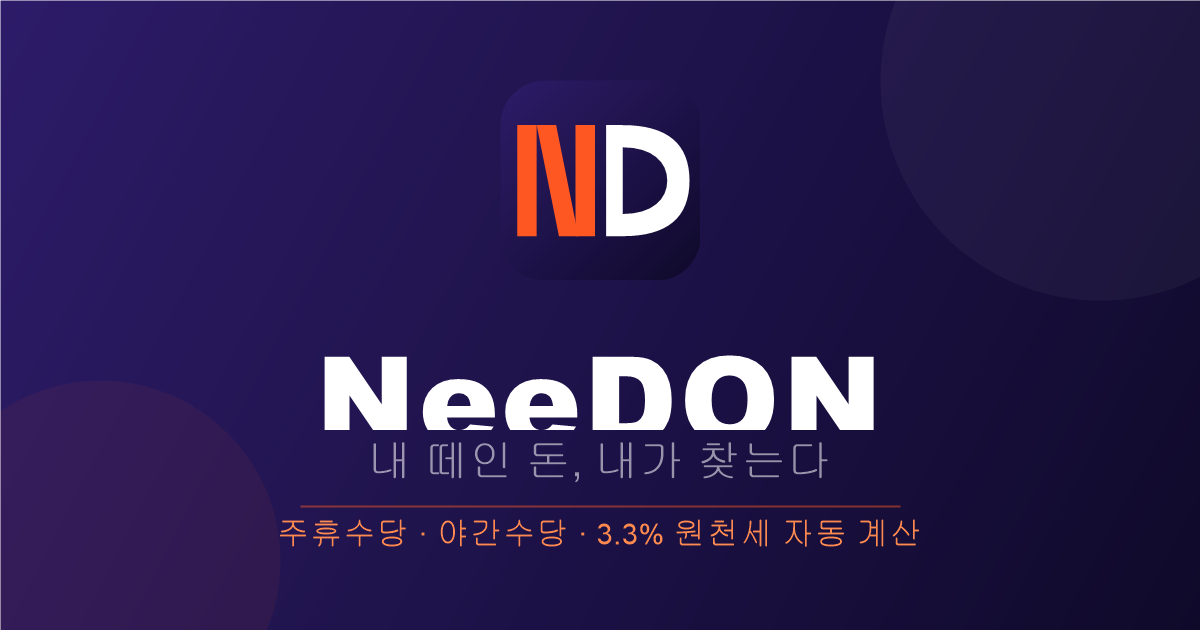
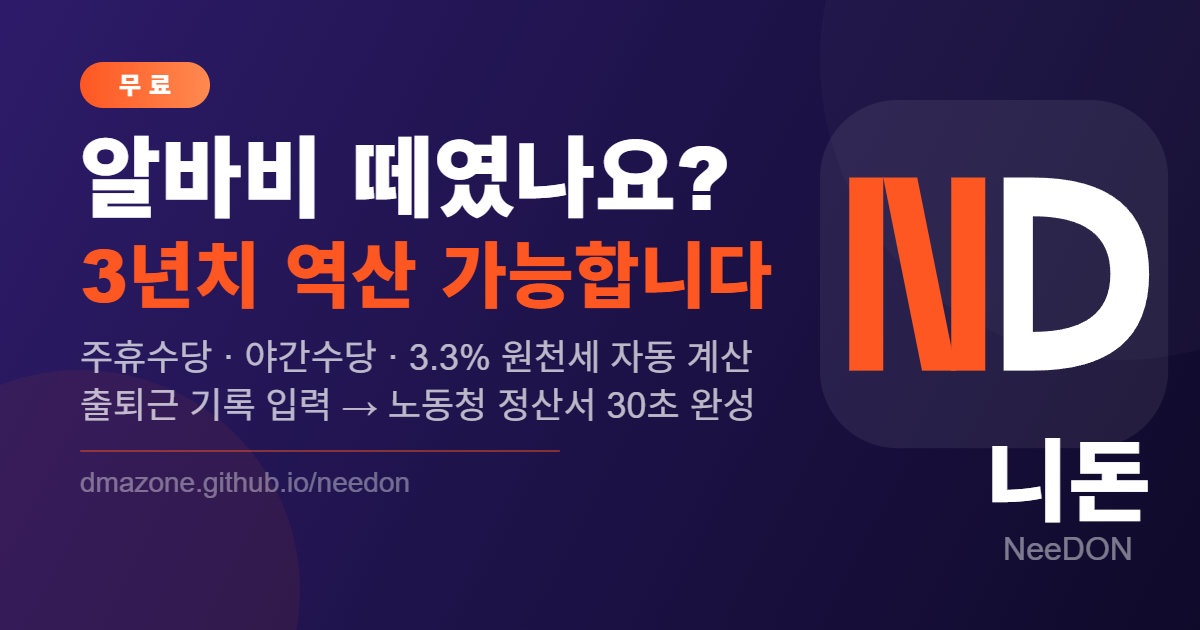
Improve OG image and SEO meta tags for better link preview

diff --git a/deedon/index.html b/deedon/index.html
@@ -5,19 +5,23 @@
   <meta name="google-site-verification" content="aGAY_kwsExs_qvC3QdZjOKXU4Jq4o2BISQnTHsfdoW0" />
   <meta name="viewport" content="width=device-width, initial-scale=1.0, maximum-scale=1.0, user-scalable=no" />
   <meta name="referrer" content="no-referrer-when-downgrade" />
-  <title>니돈(NeeDON) – 주휴수당·야간수당 자동 계산 | 알바 임금 정산 앱</title>
-  <meta name="description" content="니돈(NeeDON) – 알바생·N잡러 주휴수당, 야간수당, 3.3% 원천세 누락분 자동 계산. 출퇴근 기록 입력만 하면 노동청 제출용 정산서까지 바로 발급." />
-  <meta name="keywords" content="니돈, NeeDON, 주휴수당 계산기, 야간수당 계산, 알바 임금 계산, 3.3% 원천세, 임금체불, 노동청 정산서, 주휴수당 자동계산, 알바 월급 계산기" />
+  <title>주휴수당 계산기 – 니돈(NeeDON) | 알바 임금체불·야간수당 자동 계산</title>
+  <meta name="description" content="알바하면서 주휴수당·야간수당 못 받았어요? 니돈(NeeDON)으로 3년치 누락분 30초 만에 역산. 출퇴근 기록만 입력하면 노동청 제출용 정산서 무료 발급." />
+  <meta name="keywords" content="니돈, NeeDON, 주휴수당 계산기, 주휴수당 못받았을때, 야간수당 계산, 알바 임금체불, 3.3% 원천세 환급, 노동청 정산서, 임금체불 신고, 알바 월급 계산기, 주휴수당 자동계산, 편의점 알바 주휴수당" />
   <!-- 파비콘 & 아이콘 -->
   <link rel="icon" type="image/png" href="needon-icon.png" />
   <link rel="apple-touch-icon" href="needon-icon.png" />
   <!-- OG / 소셜 공유 -->
-  <meta property="og:title" content="니돈(NeeDON) – 주휴수당·야간수당 자동 계산 앱" />
-  <meta property="og:description" content="니돈(NeeDON) – 알바생·N잡러 주휴수당, 야간수당, 3.3% 원천세 누락분 자동 계산. 출퇴근 기록 입력만 하면 노동청 제출용 정산서까지 바로 발급." />
+  <meta property="og:title" content="알바비 떼였나요? 3년치 역산 → 노동청 정산서까지 | 니돈(NeeDON)" />
+  <meta property="og:description" content="주휴수당·야간수당·3.3% 원천세 자동 계산. 출퇴근 기록만 입력하면 30초 안에 노동청 제출용 정산서 무료 발급. 주 15시간 이상 알바했다면 지금 바로 확인하세요." />
   <meta property="og:image" content="https://dmazone.github.io/needon/needon-og.png" />
   <meta property="og:url" content="https://dmazone.github.io/needon/" />
   <meta property="og:type" content="website" />
+  <meta property="og:site_name" content="니돈(NeeDON)" />
+  <meta property="og:locale" content="ko_KR" />
   <meta name="twitter:card" content="summary_large_image" />
+  <meta name="twitter:title" content="알바비 떼였나요? 3년치 역산 → 노동청 정산서까지 | 니돈(NeeDON)" />
+  <meta name="twitter:description" content="주휴수당·야간수당·3.3% 원천세 자동 계산. 출퇴근 기록만 입력하면 30초 안에 노동청 제출용 정산서 무료 발급." />
   <meta name="twitter:image" content="https://dmazone.github.io/needon/needon-og.png" />
   <script src="https://ads-partners.coupang.com/g.js"></script>
   <script type="text/javascript" src="//t1.daumcdn.net/kas/static/ba.min.js" async></script>

diff --git a/needon/index.html b/needon/index.html
@@ -5,19 +5,23 @@
   <meta name="google-site-verification" content="aGAY_kwsExs_qvC3QdZjOKXU4Jq4o2BISQnTHsfdoW0" />
   <meta name="viewport" content="width=device-width, initial-scale=1.0, maximum-scale=1.0, user-scalable=no" />
   <meta name="referrer" content="no-referrer-when-downgrade" />
-  <title>니돈(NeeDON) – 주휴수당·야간수당 자동 계산 | 알바 임금 정산 앱</title>
-  <meta name="description" content="니돈(NeeDON) – 알바생·N잡러 주휴수당, 야간수당, 3.3% 원천세 누락분 자동 계산. 출퇴근 기록 입력만 하면 노동청 제출용 정산서까지 바로 발급." />
-  <meta name="keywords" content="니돈, NeeDON, 주휴수당 계산기, 야간수당 계산, 알바 임금 계산, 3.3% 원천세, 임금체불, 노동청 정산서, 주휴수당 자동계산, 알바 월급 계산기" />
+  <title>주휴수당 계산기 – 니돈(NeeDON) | 알바 임금체불·야간수당 자동 계산</title>
+  <meta name="description" content="알바하면서 주휴수당·야간수당 못 받았어요? 니돈(NeeDON)으로 3년치 누락분 30초 만에 역산. 출퇴근 기록만 입력하면 노동청 제출용 정산서 무료 발급." />
+  <meta name="keywords" content="니돈, NeeDON, 주휴수당 계산기, 주휴수당 못받았을때, 야간수당 계산, 알바 임금체불, 3.3% 원천세 환급, 노동청 정산서, 임금체불 신고, 알바 월급 계산기, 주휴수당 자동계산, 편의점 알바 주휴수당" />
   <!-- 파비콘 & 아이콘 -->
   <link rel="icon" type="image/png" href="needon-icon.png" />
   <link rel="apple-touch-icon" href="needon-icon.png" />
   <!-- OG / 소셜 공유 -->
-  <meta property="og:title" content="니돈(NeeDON) – 주휴수당·야간수당 자동 계산 앱" />
-  <meta property="og:description" content="니돈(NeeDON) – 알바생·N잡러 주휴수당, 야간수당, 3.3% 원천세 누락분 자동 계산. 출퇴근 기록 입력만 하면 노동청 제출용 정산서까지 바로 발급." />
+  <meta property="og:title" content="알바비 떼였나요? 3년치 역산 → 노동청 정산서까지 | 니돈(NeeDON)" />
+  <meta property="og:description" content="주휴수당·야간수당·3.3% 원천세 자동 계산. 출퇴근 기록만 입력하면 30초 안에 노동청 제출용 정산서 무료 발급. 주 15시간 이상 알바했다면 지금 바로 확인하세요." />
   <meta property="og:image" content="https://dmazone.github.io/needon/needon-og.png" />
   <meta property="og:url" content="https://dmazone.github.io/needon/" />
   <meta property="og:type" content="website" />
+  <meta property="og:site_name" content="니돈(NeeDON)" />
+  <meta property="og:locale" content="ko_KR" />
   <meta name="twitter:card" content="summary_large_image" />
+  <meta name="twitter:title" content="알바비 떼였나요? 3년치 역산 → 노동청 정산서까지 | 니돈(NeeDON)" />
+  <meta name="twitter:description" content="주휴수당·야간수당·3.3% 원천세 자동 계산. 출퇴근 기록만 입력하면 30초 안에 노동청 제출용 정산서 무료 발급." />
   <meta name="twitter:image" content="https://dmazone.github.io/needon/needon-og.png" />
   <script src="https://ads-partners.coupang.com/g.js"></script>
   <script type="text/javascript" src="//t1.daumcdn.net/kas/static/ba.min.js" async></script>
